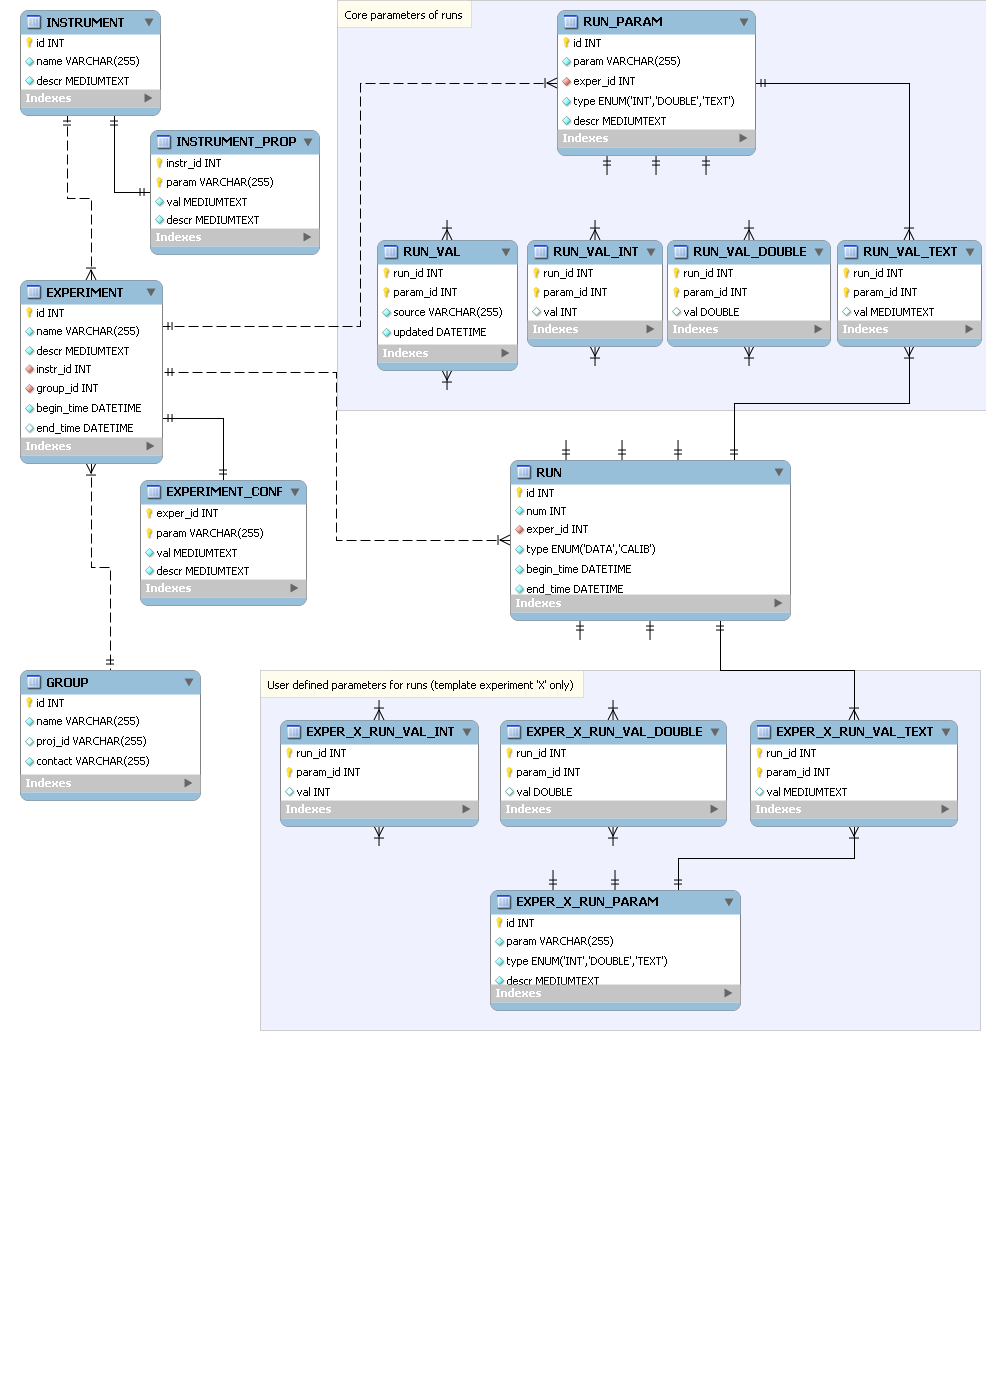
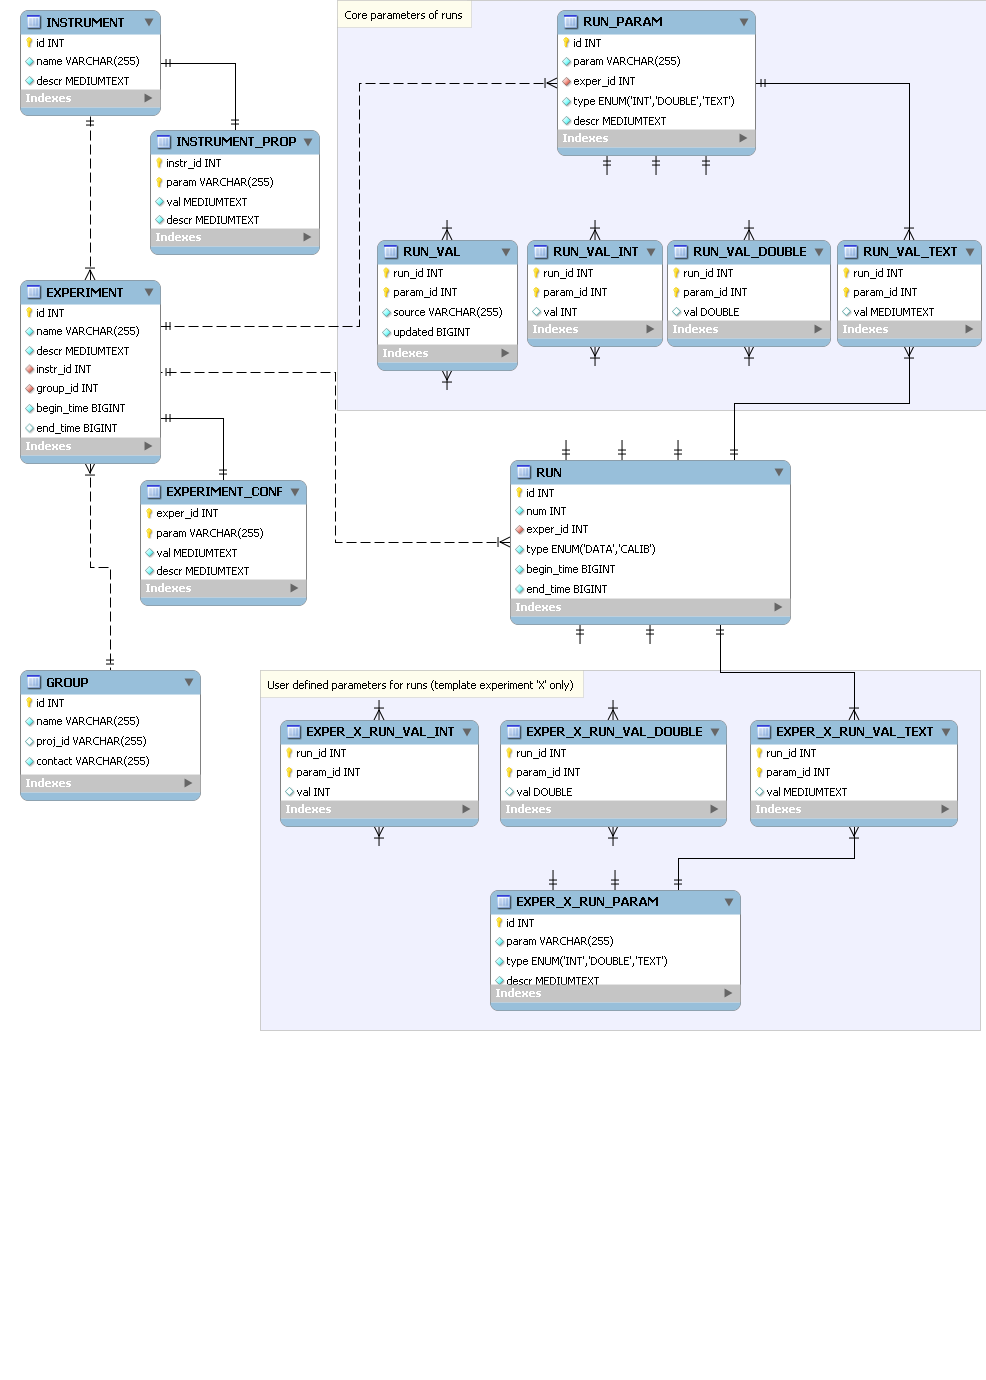
- changes in the schema to replace SQL's DATETIME with 64-bit integer (BIGINT)   to represent timestamps including nanoseconds. - reinforced API for run types - improved test application
M    app/SciMDTestApp.cpp
M    app/SciMDAdminCmd
M    doc/SciMD_schema_v0.sql
M    doc/ChangeLog
M    doc/SciMD_schema_v0.png
M    doc/SciMD_schema_v0.mwb
M    doc/SciMD_schema_v0_crop.png
M    src/ConnectionImpl.cpp

git-svn-id: https://pswww.slac.stanford.edu/svn-readonly/psdmrepo@328 b967ad99-d558-0410-b138-e0f6c56caec7

Changed region(s): [[0.5172, 0.4051, 0.7911, 0.4674], [0.1521, 0.2181, 0.1826, 0.3116], [0.0913, 0.2804, 0.1217, 0.3116]]

diff --git a/SciMD/trunk/app/SciMDTestApp.cpp b/SciMD/trunk/app/SciMDTestApp.cpp
@@ -270,8 +270,8 @@ SciMDTestApp::cmd_help ()
              << "\n"
              << "  help [command]\n"
              << "\n"
-             << "  add_run       <experiment> <run> <begn_time> <end_time>\n"
-             << "  set_run_param <experiment> <run> <param> <value>\n"
+             << "  add_run       <experiment> <run> {DATA|CALIB} <begn_time> <end_time>\n"
+             << "  set_run_param <experiment> <run> <param> <value> {INT|DOUBLE|TEXT}\n"
              << "  param_info    <experiment> <param>" << endl;
         return 0 ;
     }
@@ -318,13 +318,18 @@ SciMDTestApp::cmd_help ()
              << "    YYYY-MM-DD HH:MM::SS\n"
              << "\n"
              << "  For example:\n"
-             << "     2009-APR-27 16:23:05" << endl ;
+             << "    2009-APR-27 16:23:05\n"
+             << "\n"
+             << "  The run type can be one of the following:\n"
+             << "\n"
+             << "    'CALIB'\n"
+             << "    'DATA'" << endl ;
 
     } else if (command == "set_run_param") {
 
         cout << "SYNTAX:\n"
              << "\n"
-             << "  set_run_param <experiment> <run> <param> <value>\n"
+             << "  set_run_param <experiment> <run> <param> <value> <type>\n"
              << "\n"
              << "DESCRIPTION:\n"
              << "\n"
@@ -335,8 +340,13 @@ SciMDTestApp::cmd_help ()
              << "  during the parameter's configuration.\n"
              << "\n"
              << "  The 'source' of the parameter's value can be specified using\n"
-             << "  the '-s' option. The default value of the 'source' is: "
-             << m_source.defValue() << endl ;
+             << "  the '-s' option. The default value of the 'source' is: " << m_source.defValue() << "\n"
+             << "\n"
+             << "  The parameter type can be one of the following:\n"
+             << "\n"
+             << "    'INT'\n"
+             << "    'DOUBLE'\n"
+             << "    'TEXT'" << endl ;
 
     } else if (command == "param_info") {
 
@@ -397,7 +407,7 @@ SciMDTestApp::cmd_set_run_param () throw (std::exception)
 {
     // Parse and verify the arguments
     //
-    if (m_args.empty() || m_args.size() != 4) {
+    if (m_args.empty() || m_args.size() != 5) {
         MsgLogRoot (error, "wrong number of arguments to the command") ;
         return 2 ;
     }
@@ -406,17 +416,58 @@ SciMDTestApp::cmd_set_run_param () throw (std::exception)
     const int          run        = SciMD::str2int (*(itr++)) ;
     const std::string  param      = *(itr++) ;
     std::string        value      = *(itr++) ;
+    const  std::string type       = *(itr++) ;
 
-    m_connection->beginTransaction () ;
-    m_connection->setRunParam (
-        experiment,
-        run,
-        param,
-        value,
-        "SciMDTestApp",
-        m_update.value () > 0) ;
-    m_connection->commitTransaction () ;
+    if (type == "INT") {
 
+        int value_int ;
+        if (1 != sscanf(value.c_str(), "%d", &value_int)) {
+            MsgLogRoot (error, "parameter value is not of the claimed type") ;
+            return 2 ;
+        }
+        m_connection->beginTransaction () ;
+        m_connection->setRunParam (
+            experiment,
+            run,
+            param,
+            value_int,
+            "SciMDTestApp",
+            m_update.value () > 0) ;
+        m_connection->commitTransaction () ;
+
+    } else if (type == "DOUBLE") {
+
+        double value_double ;
+        if (1 != sscanf(value.c_str(), "%lf", &value_double)) {
+            MsgLogRoot (error, "parameter value is not of the claimed type") ;
+            return 2 ;
+        }
+        m_connection->beginTransaction () ;
+        m_connection->setRunParam (
+            experiment,
+            run,
+            param,
+            value_double,
+            "SciMDTestApp",
+            m_update.value () > 0) ;
+        m_connection->commitTransaction () ;
+
+    } else if (type == "TEXT") {
+
+        m_connection->beginTransaction () ;
+        m_connection->setRunParam (
+            experiment,
+            run,
+            param,
+            value,
+            "SciMDTestApp",
+            m_update.value () > 0) ;
+        m_connection->commitTransaction () ;
+
+    } else {
+        MsgLogRoot (error, "unsupported type of the value") ;
+        return 2 ;
+    }
     return 0 ;
 }
 

diff --git a/SciMD/trunk/src/ConnectionImpl.cpp b/SciMD/trunk/src/ConnectionImpl.cpp
@@ -22,6 +22,8 @@
 #include <memory>
 #include <iostream>
 
+#include <strings.h>
+
 using namespace std ;
 
 //-------------------------------
@@ -46,6 +48,17 @@ using namespace odbcpp ;
 //		----------------------------------------
 
 namespace SciMD {
+
+bool
+isValidRunType(const std::string& type)
+{
+    static const char* const validTypes[] = {"DATA", "CALIB"} ;
+    static const size_t numTypes = 2 ;
+    for (size_t i = 0 ; i < numTypes ; ++i)
+        if (0 == strcasecmp(validTypes[i], type.c_str()))
+            return true ;
+    return false ;
+}
 
 //-------------
 // Operators --
@@ -209,9 +222,15 @@ ConnectionImpl::createRun (const std::string&    experiment,
     if (!endTime.isValid ())
         throw WrongParams ("the begin run timstamp isn't valid") ;
 
+    // TODO: Consider reinforcing the types at a level of the API interface
+    //       (by using 'enum' rather than here.
+    //
+    if (!SciMD::isValidRunType (type))
+        throw WrongParams ("unknown run type") ;
+
     try {
-        const std::string beginTimeStr = beginTime.toString () ;
-        const std::string   endTimeStr =   endTime.toString () ;
+        long long unsigned beginTime64 = LusiTime::Time::to64 (beginTime) ;
+        long long unsigned   endTime64 = LusiTime::Time::to64 (  endTime) ;
 
         ExperDescr exper_descr ;
         if (!this->findExper (exper_descr, experiment))
@@ -223,8 +242,8 @@ ConnectionImpl::createRun (const std::string&    experiment,
         OdbcParam<int>         p1 (run) ;
         OdbcParam<int>         p2 (exper_descr.id) ;
         OdbcParam<std::string> p3 (type) ;
-        OdbcParam<std::string> p4 (beginTimeStr) ;
-        OdbcParam<std::string> p5 (endTimeStr) ;
+        OdbcParam<long long unsigned> p4 (beginTime64) ;
+        OdbcParam<long long unsigned> p5 (endTime64) ;
 
         stmt.bindParam (1, p1) ;
         stmt.bindParam (2, p2) ;
